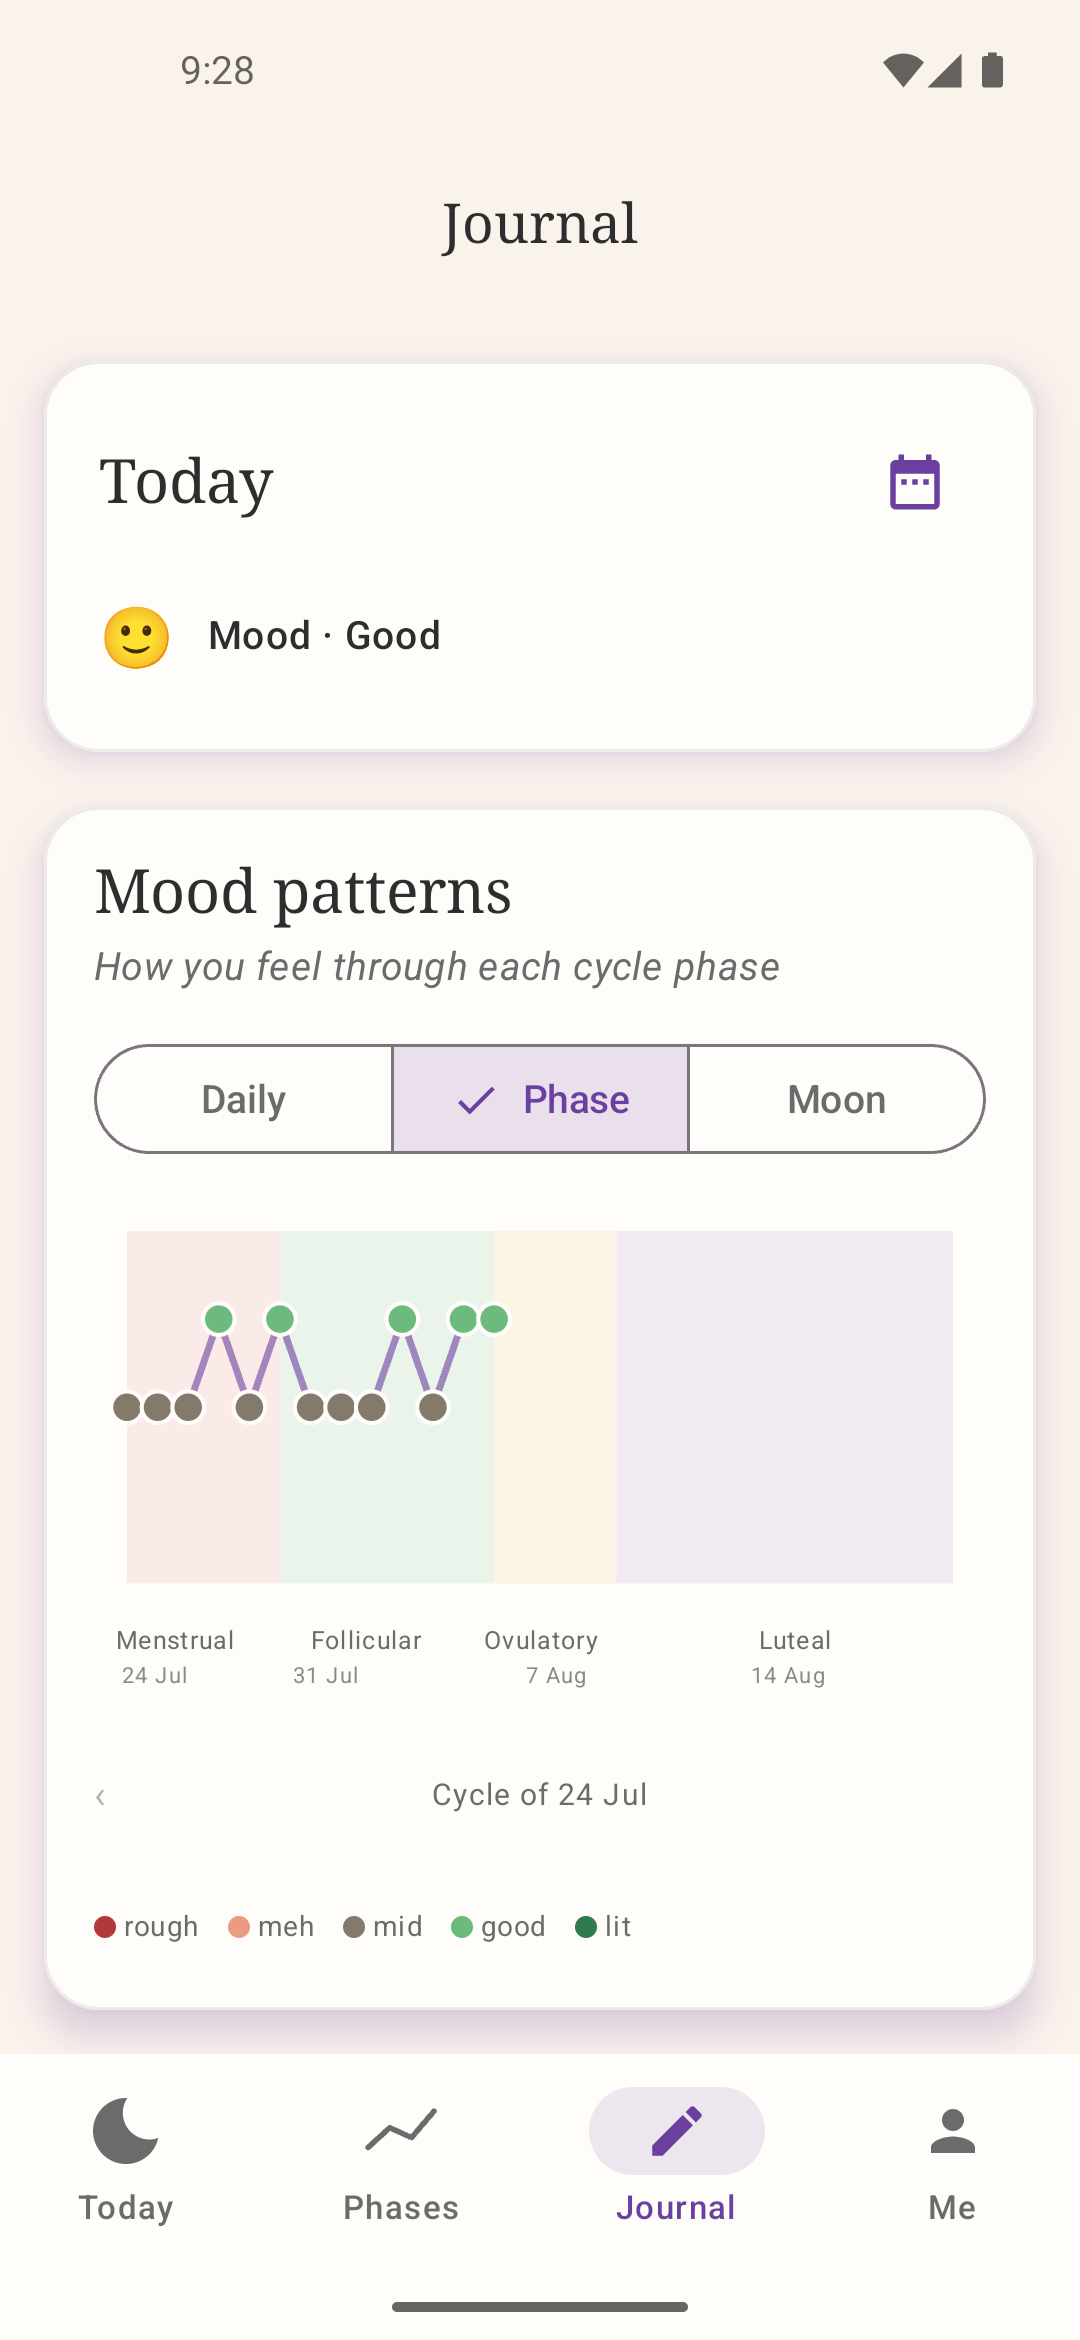
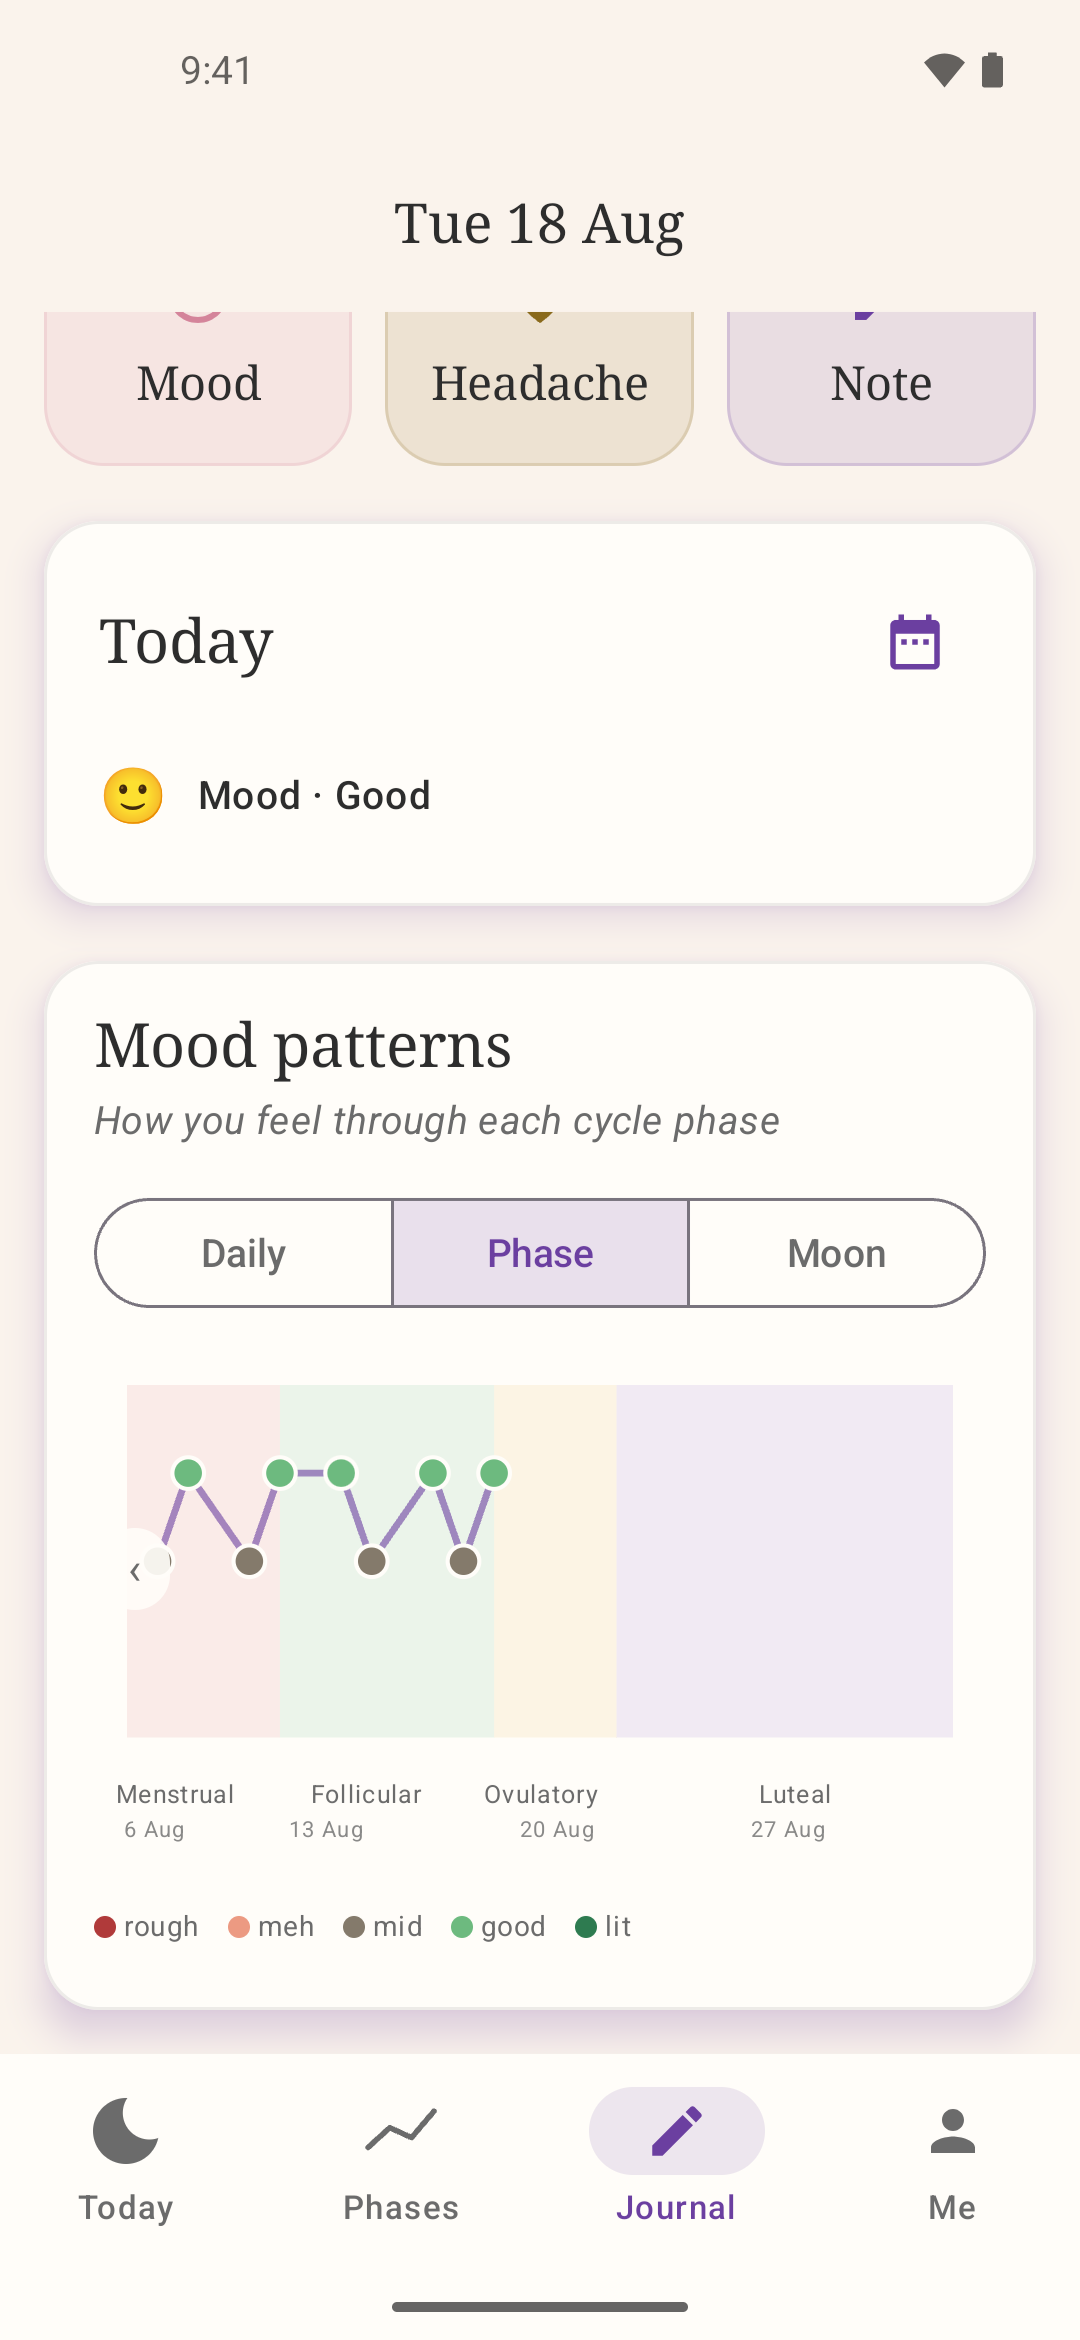
Store: recapture screenshots from the current build, add caption tooling

diff --git a/tools/render_store_screenshots.py b/tools/render_store_screenshots.py
@@ -1,0 +1,168 @@
+#!/usr/bin/env python3
+"""Compose captioned Play-listing screenshots from the raw app captures.
+
+The raw captures under store/play/{phone,tablet}/ are real screenshots of the running app.
+They are also what F-Droid shows (fastlane/metadata/.../phoneScreenshots is a copy of the
+phone set), and F-Droid's convention is a plain screenshot with no marketing overlay — so
+the captions go ONLY into store/play/captioned/, which is the Play upload. Never write this
+output back over the raw captures.
+
+Each frame keeps the source dimensions, so Play's aspect-ratio rules are satisfied by
+construction. The device status bar is cropped away: an emulator clock and a half-full
+battery read as "someone screenshotted their phone", not as a store asset.
+
+Palette, gradient and serif are the ones in tools/render_feature_graphic.py, so the listing
+carousel, the feature graphic and the app itself stay one family.
+
+    python3 tools/render_store_screenshots.py
+"""
+import sys
+from pathlib import Path
+
+from PIL import Image, ImageDraw, ImageFilter, ImageFont
+
+CREAM_IN, CREAM_OUT = (255, 251, 246), (242, 231, 220)
+INK, INK_SOFT = (45, 45, 45), (107, 107, 107)
+SERIF = "/System/Library/Fonts/Supplemental/Georgia.ttf"
+SANS = "/System/Library/Fonts/SFNS.ttf"
+
+ROOT = Path(__file__).resolve().parent.parent
+RAW = ROOT / "store" / "play"
+OUT = ROOT / "store" / "play" / "captioned"
+
+# Fraction of the source height occupied by the status bar. Cropped, not covered: painting
+# over it would leave a seam where the app's own background meets the caption band.
+STATUS_BAR = 0.052
+
+# Headline, then an optional second line. Shot 1 carries the privacy line because it is the
+# real differentiator and the first frame is the only one most people ever see.
+CAPTIONS = {
+    "01-home": ("Where you are today", "No account. No cloud."),
+    "02-calendar": ("Your month, logged and predicted", None),
+    "03-phases": ("What each phase is doing", None),
+    "04-journal-phase": ("Mood patterns across your cycle", None),
+    "05-journal-moon": ("…and through the lunar month", None),
+    "04-journal": ("Mood patterns across your cycle", None),  # tablet set's journal shot
+}
+
+
+def cream_wash(size):
+    """The app's warm background. Computed small and scaled up — a per-pixel loop at
+    1080x2340 costs seconds per frame and the gradient is smooth enough to interpolate."""
+    w, h = size
+    sw, sh = 96, max(1, round(96 * h / w))
+    small = Image.new("RGB", (sw, sh), CREAM_OUT)
+    px = small.load()
+    cx, cy = sw * 0.5, sh * 0.34
+    far = max(
+        (cx**2 + cy**2) ** 0.5,
+        ((sw - cx) ** 2 + cy**2) ** 0.5,
+        (cx**2 + (sh - cy) ** 2) ** 0.5,
+        ((sw - cx) ** 2 + (sh - cy) ** 2) ** 0.5,
+    )
+    for y in range(sh):
+        for x in range(sw):
+            t = min((((x - cx) ** 2 + (y - cy) ** 2) ** 0.5) / far, 1.0)
+            px[x, y] = tuple(round(a + (b - a) * t) for a, b in zip(CREAM_IN, CREAM_OUT))
+    return small.resize((w, h), Image.BICUBIC)
+
+
+def rounded(img, radius):
+    """Round the capture's corners so it reads as a device, not a pasted rectangle."""
+    mask = Image.new("L", img.size, 0)
+    ImageDraw.Draw(mask).rounded_rectangle([0, 0, img.width - 1, img.height - 1],
+                                          radius=radius, fill=255)
+    out = img.convert("RGBA")
+    out.putalpha(mask)
+    return out
+
+
+def fit_text(draw, text, font_path, start_size, max_width):
+    """Largest size at or below start_size that fits the caption on one line."""
+    size = start_size
+    while size > 20:
+        font = ImageFont.truetype(font_path, size)
+        if draw.textlength(text, font=font) <= max_width:
+            return font
+        size -= 2
+    return ImageFont.truetype(font_path, size)
+
+
+def compose(src_path, out_path, headline, subline):
+    shot = Image.open(src_path).convert("RGB")
+    W, H = shot.size
+
+    shot = shot.crop((0, round(H * STATUS_BAR), W, H))
+
+    canvas = cream_wash((W, H))
+    draw = ImageDraw.Draw(canvas)
+
+    # Type is sized off the SHORT edge, not the width. A tablet frame is landscape, and
+    # sizing off 2560px produced a headline that swallowed the band and cropped the capture.
+    ref = min(W, H)
+    margin = round(W * 0.075)
+    pad = round(ref * 0.085)
+    text_width = W - 2 * margin
+
+    head_font = fit_text(draw, headline, SERIF, round(ref * 0.062), text_width)
+    head_h = head_font.getbbox(headline)[3]
+    sub_font = sub_h = None
+    if subline:
+        sub_font = fit_text(draw, subline, SANS, round(ref * 0.034), text_width)
+        sub_h = sub_font.getbbox(subline)[3]
+
+    gap = round(ref * 0.014) if subline else 0
+    text_h = head_h + gap + (sub_h or 0)
+    # The band is whatever the text needs plus even padding, so portrait and landscape get
+    # the same visual breathing room rather than the same fraction of very different heights.
+    band = text_h + 2 * pad
+
+    draw.text((W / 2, pad), headline, font=head_font, fill=INK, anchor="ma")
+    if subline:
+        draw.text((W / 2, pad + head_h + gap), subline, font=sub_font, fill=INK_SOFT,
+                  anchor="ma")
+
+    # The capture fills what the caption leaves, keeping its aspect ratio. It is anchored to
+    # the bottom edge: a floating card with cream underneath looked like a rendering bug.
+    avail_h = H - band
+    scale = min((W - 2 * margin) / shot.width, avail_h / shot.height)
+    new = (round(shot.width * scale), round(shot.height * scale))
+    radius = round(new[0] * 0.045)
+    shot = rounded(shot.resize(new, Image.LANCZOS), radius)
+    pos = ((W - new[0]) // 2, H - new[1])
+
+    # The capture's own background is the same cream as the canvas, so without a shadow the
+    # frame edge disappears and the screenshot reads as a smudge rather than a phone.
+    alpha = Image.new("L", (W, H), 0)
+    alpha.paste(shot.getchannel("A"), (pos[0], pos[1] + round(H * 0.005)))
+    alpha = alpha.filter(ImageFilter.GaussianBlur(round(W * 0.016)))
+    canvas.paste(Image.new("RGB", (W, H), (120, 96, 88)), (0, 0),
+                 alpha.point(lambda v: v * 46 // 255))
+    canvas.paste(shot, pos, shot)
+
+    # Hairline over the shadow: warm, low-contrast, just enough to hold the corner.
+    ImageDraw.Draw(canvas).rounded_rectangle(
+        [pos[0], pos[1], pos[0] + new[0] - 1, pos[1] + new[1] - 1],
+        radius=radius, outline=(214, 198, 188), width=max(1, round(W * 0.0015)))
+
+    out_path.parent.mkdir(parents=True, exist_ok=True)
+    canvas.save(out_path, "PNG", optimize=True)
+    print(f"wrote {out_path.relative_to(ROOT)} ({canvas.width}x{canvas.height})")
+
+
+def main():
+    made = 0
+    for kind in ("phone", "tablet"):
+        for src in sorted((RAW / kind).glob("*.png")):
+            caption = CAPTIONS.get(src.stem)
+            if caption is None:
+                print(f"skipped {src.name} — no caption defined", file=sys.stderr)
+                continue
+            compose(src, OUT / kind / src.name, *caption)
+            made += 1
+    if made == 0:
+        sys.exit("no screenshots rendered — check store/play/{phone,tablet}/")
+
+
+if __name__ == "__main__":
+    main()

diff --git a/tools/make_demo_data.py b/tools/make_demo_data.py
@@ -1,0 +1,64 @@
+#!/usr/bin/env python3
+"""Generate the "Tanya" demo dataset used for store screenshots.
+
+The captures under store/play/ are of the real app, so they need real data on the device.
+This exists so that data is reproducible: before, the persona lived only as a sentence in
+store/play/README.md and had to be re-entered by hand, which meant no two capture sessions
+matched.
+
+Dates are relative to --today, so a capture session months from now still lands on Day 13 of
+an Ovulatory phase rather than whatever the old absolute dates would have drifted into.
+
+Moods stay inside {3, 4}: enough logs for every chart to draw, too little spread for the
+insight guardrails to name a pattern (MoodInsights.MIN_GAP is 0.8 on the 1..5 scale). No
+headaches at all. No screenshot should assert a health conclusion about a person who does
+not exist.
+
+    python3 tools/make_demo_data.py > /tmp/tanya.json
+    adb shell am force-stop net.quietflare.cycluna
+    adb push /tmp/tanya.json /data/local/tmp/t.json
+    adb shell "run-as net.quietflare.cycluna sh -c 'cat /data/local/tmp/t.json > files/cycle-store.json'"
+"""
+import argparse
+import datetime as dt
+import json
+
+CYCLE_LENGTH = 28
+DAY_IN_CYCLE = 13          # Ovulatory, and the fertile window is open
+
+
+def build(today):
+    anchor = today - dt.timedelta(days=DAY_IN_CYCLE - 1)
+    starts = [anchor - dt.timedelta(days=CYCLE_LENGTH * i) for i in range(5)][::-1]
+
+    moods = []
+    day = starts[-3]                       # ~2 cycles of history: enough to page back
+    while day <= today:
+        n = (day - starts[-3]).days
+        # Skip roughly every third day so it reads as real logging, but never skip today —
+        # the Journal shot needs "Mood · Good" on the Today card.
+        if n % 3 != 2 or day == today:
+            moods.append({
+                "date": day.isoformat(),
+                "mood": 4 if n % 5 in (1, 3) or day == today else 3,
+                "note": "",
+            })
+        day += dt.timedelta(days=1)
+
+    return {
+        "periodStarts": [s.isoformat() for s in starts],
+        "cycleLengthSetting": CYCLE_LENGTH,
+        "periodLength": 5,
+        "displayName": "Tanya",
+        "moods": moods,
+        "headaches": [],
+        "journal": [],
+    }
+
+
+if __name__ == "__main__":
+    p = argparse.ArgumentParser()
+    p.add_argument("--today", help="ISO date to treat as today (default: actual today)")
+    args = p.parse_args()
+    today = dt.date.fromisoformat(args.today) if args.today else dt.date.today()
+    print(json.dumps(build(today), indent=4))

diff --git a/store/play/README.md b/store/play/README.md
@@ -15,3 +15,18 @@ own guardrails decline to state any pattern. No screenshot asserts a health conc
 a person who does not exist — the charts show data, not claims.
 
 The feature graphic is rendered by `tools/render_feature_graphic.py` (Pillow).
+
+## Captioned set — upload these to Play
+
+`captioned/{phone,tablet}/` is built from the raw captures by
+`python3 tools/render_store_screenshots.py`: caption band on the cream wash, status bar
+cropped, capture set below it. **Those are the files to upload to Play Console**; the raw
+captures stay as the source and are never overwritten.
+
+⚠ `fastlane/metadata/android/en-US/images/phoneScreenshots/` (what F-Droid shows) is a copy
+of the **raw** `phone/` set, deliberately WITHOUT captions — F-Droid's convention is a plain
+app screenshot, not a marketing frame. The two sets are supposed to differ. Do not "fix" the
+drift by copying the captioned files over the fastlane ones.
+
+Caption text lives in `CAPTIONS` at the top of the render script, keyed by file stem; a
+capture with no entry there is skipped with a warning rather than silently shipped bare.
